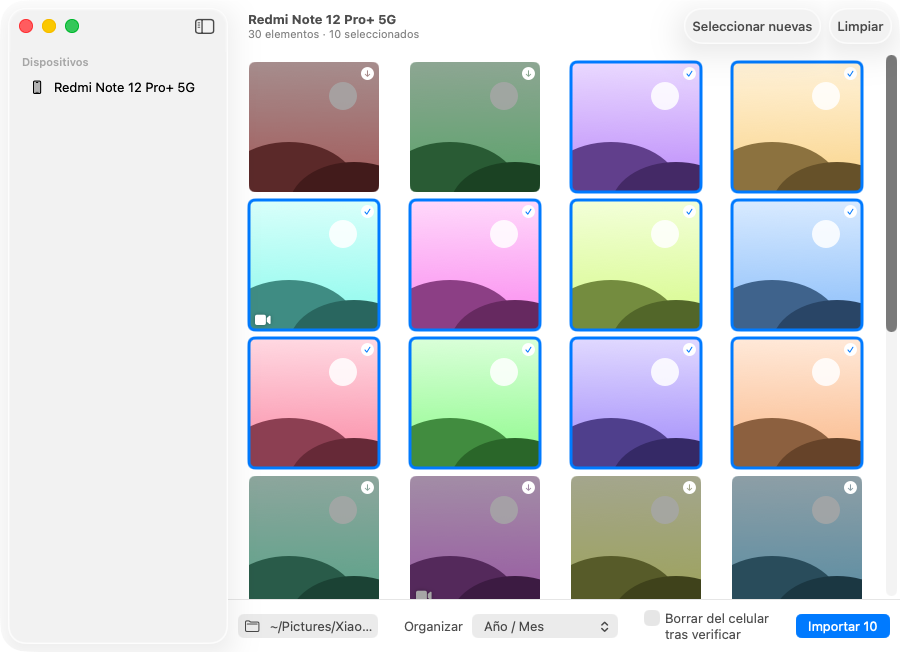
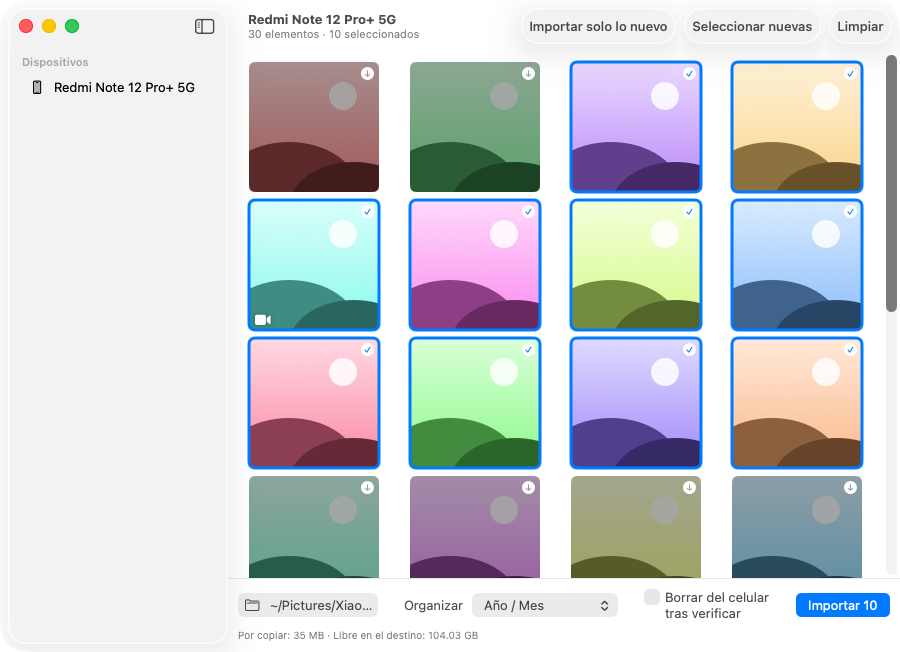
Documenta las funciones nuevas y actualiza las capturas del manual
El manual, el README y ESTADO.md describen la vista previa de video, importar solo
lo nuevo, la copia segura con cancelar y reanudar, y el aviso de espacio y tiempo
estimado. Se regeneran las capturas con la nueva barra de espacio.

Changed region(s): [[0.2489, 0.8896, 0.9956, 0.9816], [0.5911, 0.0307, 0.7467, 0.0613], [0.9644, 0.4601, 1.0, 0.5215]]

diff --git a/docs/manual-de-usuario.html b/docs/manual-de-usuario.html
@@ -176,18 +176,21 @@
 <h2 id="importar">4. Importar fotos paso a paso</h2>
 <ol>
   <li><strong>Elige el celular.</strong> Selecciónalo en la barra lateral. La app muestra «Abriendo sesión…» y luego «Leyendo fotos…» con un contador. Con miles de fotos puede tardar unos minutos.</li>
-  <li><strong>Mira la galería.</strong> Verás las miniaturas de las fotos y los videos. Pasa el cursor sobre una miniatura para ver el nombre del archivo, la fecha y si ya fue importada. Haz <strong>doble clic</strong> para ver la vista previa y <strong>Cerrar</strong> (o la tecla <kbd>Esc</kbd>) para volver.</li>
+  <li><strong>Mira la galería.</strong> Verás las miniaturas de las fotos y los videos. Pasa el cursor sobre una miniatura para ver el nombre del archivo, la fecha y si ya fue importada. Haz <strong>doble clic</strong> para ver la vista previa y <strong>Cerrar</strong> (o la tecla <kbd>Esc</kbd>) para volver. En los videos, la app primero descarga el archivo completo a una carpeta temporal y luego lo reproduce con controles de pausa y avance; el archivo temporal se borra al cerrar la vista previa.</li>
   <li><strong>Selecciona qué importar.</strong>
     <ul>
       <li>Un clic en una miniatura la selecciona (aparece un borde y una marca de verificación); otro clic la deselecciona. Puedes marcar tantas como quieras, una por una.</li>
       <li>Las fotos ya importadas se ven atenuadas y con una flecha de descarga.</li>
       <li><strong>Seleccionar nuevas</strong>: marca de una sola vez todo lo que aún no has importado.</li>
       <li><strong>Limpiar</strong>: quita toda la selección.</li>
+      <li><strong>Importar solo lo nuevo</strong> (barra superior): selecciona lo que aún no has importado y lo importa de una vez, sin más pasos. Es el atajo para el uso habitual.</li>
     </ul>
   </li>
   <li><strong>Elige la carpeta de destino.</strong> Pulsa el botón con el icono de carpeta de la barra inferior. Por defecto es tu carpeta <em>Imágenes</em>.</li>
   <li><strong>Elige cómo organizar</strong> (ver siguiente sección).</li>
-  <li><strong>Pulsa «Importar N»</strong>, donde N es el número de elementos seleccionados. El registro de la parte inferior muestra el avance y, al final, cuántas se importaron, cuántas se omitieron por duplicadas y cuántas fallaron.</li>
+  <li><strong>Revisa el espacio.</strong> Bajo los controles aparece «Por copiar», el tamaño de lo seleccionado que aún no se ha importado, junto al espacio libre del disco de destino. Si lo seleccionado no cabe, el texto se pone en rojo y al pulsar Importar la app no copia nada y explica cuánto falta.</li>
+  <li><strong>Pulsa «Importar N»</strong>, donde N es el número de elementos seleccionados. Mientras copia, la barra muestra cuántos archivos van, los bytes copiados y un tiempo restante estimado (aparece después de unos segundos, cuando ya se puede medir la velocidad). Al final, el registro indica cuántas se importaron, cuántas se omitieron por duplicadas y cuántas fallaron.</li>
+  <li><strong>Cancelar y reanudar (opcional).</strong> El botón <strong>Cancelar</strong> detiene la importación: el archivo en curso termina de copiarse y los siguientes quedan sin importar. Lo pendiente queda seleccionado; para reanudar, pulsa Importar otra vez y la app omite lo que ya se copió.</li>
 </ol>
 
 <figure>
@@ -229,8 +232,13 @@
   cursor y se omiten, así que puedes importar el mismo celular muchas veces sin repetir archivos.
 </p>
 
-<h3>Verificación tras copiar</h3>
-<p>Después de copiar cada archivo, la app compara su tamaño con el del original. Si no coinciden, lo cuenta como fallido.</p>
+<h3>Verificación tras copiar y copia segura</h3>
+<p>
+  Cada archivo se copia primero con la extensión <code>.parte</code> y solo recibe su nombre definitivo cuando su tamaño
+  coincide con el del original. Así, si se desconecta el cable a mitad de una foto, no queda en tu carpeta un archivo
+  incompleto con apariencia de bueno: el <code>.parte</code> se elimina y la foto cuenta como fallida. Las fotos fallidas
+  quedan seleccionadas para que las reintentes con un solo clic en Importar.
+</p>
 
 <h2 id="borrar">6. Borrar del celular tras importar</h2>
 <p>
@@ -242,6 +250,7 @@
   Los archivos borrados del celular no pasan por ninguna papelera. Antes de usar esta opción, prueba con una sola foto,
   comprueba que se abre bien en el Mac y, mejor aún, ten una copia de seguridad adicional. Algunos celulares no permiten
   borrar archivos por PTP; en ese caso la importación funciona, pero las fotos siguen en el celular.
+  Si cancelas una importación, la app no borra nada del celular; el borrado se hará cuando termines de importar todo.
 </div>
 
 <h2 id="problemas">7. Solución de problemas</h2>
@@ -265,8 +274,16 @@
       <td>Con miles de fotos o con fotos de 200 MP la carga es lenta. Espera a que termine el contador de «Leyendo fotos…».</td>
     </tr>
     <tr>
-      <td>«Vista previa de video no disponible»</td>
-      <td>Es una limitación actual: los videos se pueden importar, pero no previsualizar dentro de la app.</td>
+      <td>El video tarda en empezar a reproducirse</td>
+      <td>La app descarga el video completo antes de reproducirlo, así que los videos largos o en 4K tardan. Espera a que termine «Descargando video…».</td>
+    </tr>
+    <tr>
+      <td>«Espacio insuficiente en el destino»</td>
+      <td>Lo seleccionado no cabe en el disco. Libera espacio, elige otra carpeta de destino (por ejemplo, un disco externo) o importa por tandas.</td>
+    </tr>
+    <tr>
+      <td>Se cortó el cable o cancelé a mitad de la importación</td>
+      <td>Vuelve a conectar y pulsa <strong>Importar solo lo nuevo</strong>, o Importar si lo pendiente sigue seleccionado. No se repite lo ya copiado.</td>
     </tr>
     <tr>
       <td>macOS pide permiso para acceder a una carpeta</td>
@@ -286,7 +303,8 @@
 <h2 id="limites">8. Limitaciones conocidas</h2>
 <ul>
   <li>Esta versión se compiló, pero todavía no se ha probado extensamente con un celular real. Haz una prueba con pocas fotos antes de importar toda la galería.</li>
-  <li>No hay vista previa de videos.</li>
+  <li>Para ver un video, la app lo descarga entero antes de reproducirlo.</li>
+  <li>Cancelar espera a que termine el archivo en curso; no interrumpe una copia a medias.</li>
   <li>La vista previa completa de fotos de 200 MP puede ser lenta.</li>
   <li>El borrado en el celular depende de que el modelo lo permita por PTP.</li>
   <li>La app no está firmada con un certificado de Apple, por lo que macOS pide aprobarla manualmente la primera vez.</li>

diff --git a/ESTADO.md b/ESTADO.md
@@ -26,9 +26,15 @@ App nativa de macOS para conectar un Xiaomi por USB, leer las fotos del celular 
   artefacto `ConectorXiaomi-capturas`; ese paso tiene `continue-on-error` para no bloquear el instalador.
 - Modo de demostración (`Captura.swift`): con las variables `CONECTOR_CAPTURAS` y `CONECTOR_ESCENA` la app carga un celular y
   fotos ficticias, guarda un PNG de su ventana y se cierra. Sin esas variables no cambia nada. Por eso `PhotoItem.file` es opcional.
-- Manual de usuario en `docs/manual-de-usuario.html`, con imágenes en `docs/img/`.
-- Publicado como pre-lanzamiento `v1.0.0-prueba` en GitHub Releases con el `.dmg` adjunto, y Pull Request abierto desde la
-  rama `ccr-a8701da9-ja6pdv` hacia `main`.
+- Funciones añadidas (compilan en Actions, **sin probar con el celular**):
+  - Vista previa de video: descarga a carpeta temporal y reproduce con AVKit.
+  - «Importar solo lo nuevo» en la barra superior.
+  - Copia segura con archivos `.parte`, cancelar entre archivos y reanudar; lo pendiente o fallido queda seleccionado y al
+    cancelar no se borra nada del celular.
+  - Barra con tamaño por copiar, espacio libre en el destino, rechazo si no cabe y tiempo restante estimado.
+- Manual de usuario en `docs/manual-de-usuario.html`, con imágenes en `docs/img/`, actualizado con las funciones nuevas.
+- Pre-lanzamientos en GitHub Releases con el `.dmg` adjunto: `v1.0.0-prueba` (sin las funciones nuevas) y `v1.1.0-prueba`
+  (la más reciente). Pull Request #1 abierto desde la rama `ccr-a8701da9-ja6pdv` hacia `main`.
 
 ## Pendiente / riesgos
 1. **Nunca se probó con el celular real.** Es lo principal. Compilar no garantiza que el delegado de ImageCaptureCore
@@ -36,9 +42,11 @@ App nativa de macOS para conectar un Xiaomi por USB, leer las fotos del celular 
 2. Comprobar que el celular aparece en la barra lateral y carga miniaturas.
 3. Probar importar 1 foto; verificar fecha, carpeta y duplicados.
 4. Probar el borrado en el celular con una sola foto (puede no estar permitido por PTP).
+   Probar también cancelar a mitad de una importación y reanudar, y desconectar el cable a propósito para ver que no queda
+   ningún `.parte`.
 5. Comprobar si macOS pide algún permiso extra para leer el celular o escribir en la carpeta de destino. El manual lo
    menciona como posible, pero no está verificado.
-6. Vista previa de videos: no implementada.
+6. Probar la vista previa de video con un video real, incluido uno largo o en 4K: se descarga entero antes de reproducir.
 7. Fotos de 200 MP: posible lentitud en la vista previa completa.
 8. Firma con Apple Developer ID y notarización: evitaría el bloqueo de la primera apertura, cuesta USD 99 al año. No hecho.
 9. Los textos de solución de problemas del manual son previsiones: corregirlos con lo que se observe en la prueba real.

diff --git a/README.md b/README.md
@@ -12,10 +12,13 @@ el celular debe estar en modo **«Transferir fotos (PTP)»**:
 
 ## Funciones
 - Detección automática del celular y lectura de DCIM (fotos y videos).
-- Miniaturas, selección múltiple y vista previa (doble clic).
+- Miniaturas, selección múltiple y vista previa de fotos y videos (doble clic).
+- Botón «Importar solo lo nuevo» para importar en un paso lo que aún no se ha copiado.
 - Importación a carpeta elegida, organizada por Año/Mes, Año/Mes/Día o plana.
 - Detección de duplicados (índice persistente + comparación en destino).
-- Verificación de tamaño tras copiar; opción de borrar del celular solo lo verificado.
+- Verificación de tamaño tras copiar, con copia segura mediante archivos `.parte`; opción de borrar del celular solo lo verificado.
+- Cancelar y reanudar la importación sin repetir lo ya copiado.
+- Aviso del tamaño a copiar y del espacio libre en el destino, rechazo si no cabe y tiempo restante estimado durante la copia.
 
 ## Compilar
 ```bash
